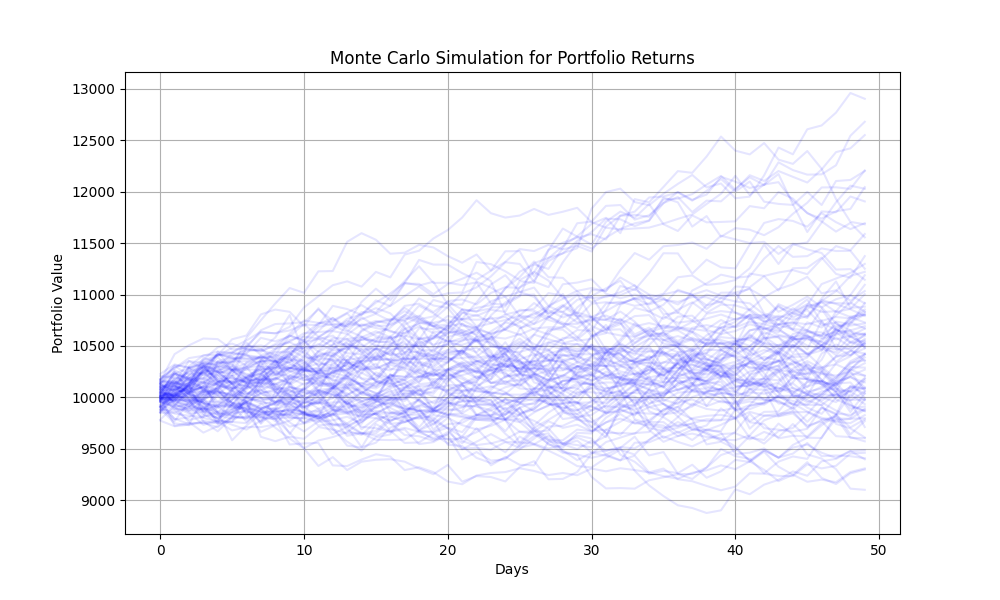
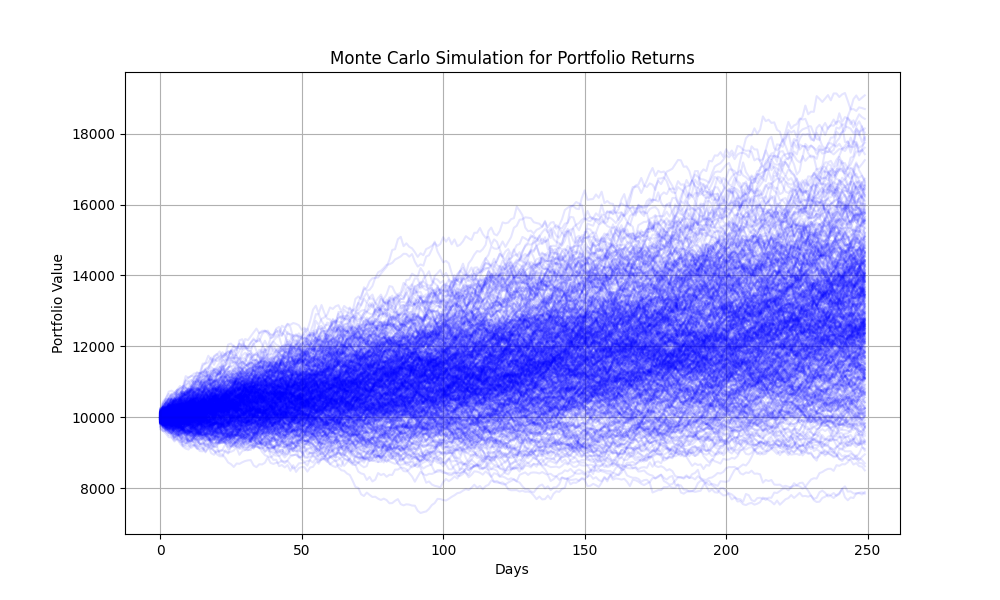
adjust simulation size

diff --git a/PortfolioOptimizer/main.py b/PortfolioOptimizer/main.py
@@ -67,7 +67,7 @@ if __name__ == "__main__":
         simulator = MonteCarloSimulator(portfolio_prices, initial_investment)
 
         # Run simulation
-        portfolio_values = simulator.simulate(num_simulations=100, time_horizon=50)
+        portfolio_values = simulator.simulate(num_simulations=500, time_horizon=250)
 
         if portfolio_values is not None:
             # Export simulation graph
